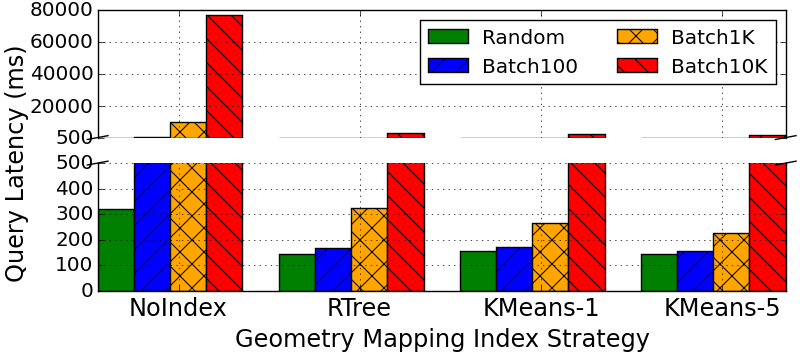
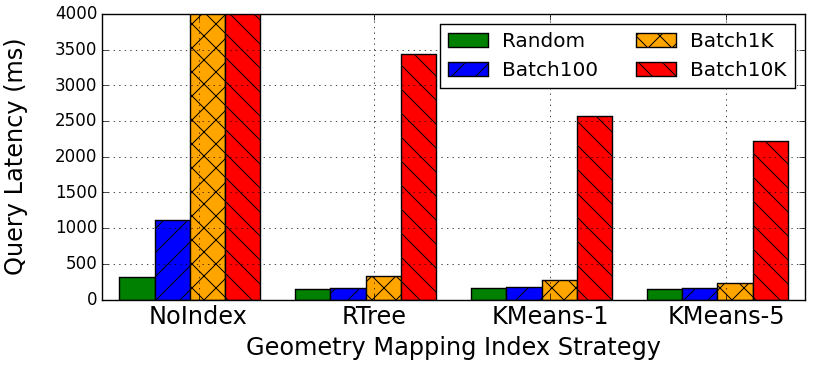
replace expansion to flatten globally

diff --git a/Lineage.tex b/Lineage.tex
@@ -195,8 +195,8 @@ Based on the fact of ML pipeline builders having deep understanding of data tran
 we present a lineage capturing interface that returns declaration and instrumentation (what data to capture) flexibility to users. 
 By formulating the cell level mapping of an ML pipeline as a sequence of multi-dimensional space transformations
 (Figure~\ref{fig:conceptual} shows a conceptual illustration), we are able to identify seven primitive lineage types.
-Higher-dimensional space can collapse/expand to lower-dimensional spaces along one dimension at a time, 
-resulting in {\bf collapse} mapping (\textcircled{1}) and {\bf expansion} mapping (\textcircled{6}, \textcircled{7}). 
+Higher-dimensional space can collapse/flatten to lower-dimensional spaces along one dimension at a time, 
+resulting in {\bf collapse} mapping (\textcircled{1}) and {\bf flatten} mapping (\textcircled{6}, \textcircled{7}). 
 A mapping between spaces with the same number of dimensions can be {\bf identity} mapping (\textcircled{5}), {\bf all} mapping (\textcircled{9}), 
 {\bf geometry} mapping (\textcircled{2}, \textcircled{4}), {\bf lincom} (short for linear combination) mapping (\textcircled{3}, \textcircled{8}),
 or {\bf join} mapping. 
@@ -347,7 +347,7 @@ The mapping function {\bf Func()} contains the core information of the input and
 Recording the element-wise dependency can take up to $O(kN^2)$ space given k N-dimensional vectors in the case
 of every output element depending on every input element. 
 To eliminate this polynomial explosion in space requirements, we identify seven primitive mapping functions.
-From higher dimension space to lower dimension space, the mapping can be {\bf collapse} or {\bf expansion}.
+From higher dimension space to lower dimension space, the mapping can be {\bf collapse} or {\bf flatten}.
 Between the equal dimension spaces, the mapping can be {\bf identity}, {\bf all}, {\bf geometry}, {\bf lincom}, and {\bf join}.
 Figure~\ref{fig:narrowmapping} shows the seven primitive mapping functions, with the mapping highlighted with color scheme.
 
@@ -362,7 +362,7 @@ Figure~\ref{fig:narrowmapping} shows the seven primitive mapping functions, with
 
 {\bf Collapse} mapping describes the mapping of a space collapsing into a one dimension lower space along one dimension which needs
 to be specified by the user. Examples include gray scaling a multiple channel image.
-{\bf Expansion} mapping is where a space expands to a one dimension lower space, e.g., expanding a matrix to a vector with column major.
+{\bf Flatten} mapping is where a space expands to a one dimension lower space, e.g., expanding a matrix to a vector with column major.
 In {\bf identity} mapping, each output element only depends on one element with the same coordinate in the input matrix.
 In {\bf all} mapping, each output element depends on all elements in the input matrix.
 {\bf Geometry} mapping describes the case where a group of output elements depend on a group of input elements.
@@ -654,7 +654,7 @@ Table~\ref{tb:lineage-interface} summarizes the lineage types and parameters pas
     \begin{tabular}{ | p{8cm}|}
     \hline
     CollapseLineage(in, out, transformer, dimension) \\ \hline 
-    ExpansionLineage(in, out, transformer, dimension) \\ \hline
+    FlattenLineage(in, out, transformer, dimension) \\ \hline
     IdentityLineage(in, out, transformer) \\ \hline
     AllLineage(in, out, transformer) \\ \hline
     GeoLineage(in, out, transformer, mappingCollection) \\ \hline
@@ -702,7 +702,7 @@ This intuitive solution takes a tremendous amount of space to materialize the ma
     \begin{tabular}{ | p{8cm}|}
     \hline
     CollapseMapping(inMeta, outMeta, dimension) \\ \hline 
-    ExpansionMapping(inMeta, outMeta, dimension) \\ \hline
+    FlattenMapping(inMeta, outMeta, dimension) \\ \hline
     IdentityMapping(inMeta, outMeta) \\ \hline
     AllMapping(inMeta, outMeta) \\ \hline
     GeometryMapping(inMeta, outMeta, mappingCollection) \\ \hline
@@ -770,23 +770,23 @@ All mapping, identity mapping, lincom mapping, and join mapping are symmetric,
 meaning the inverse of these two mappings are also all mapping, identity mapping, 
 lincom mapping and join mapping respectively.
 
-{\bf Collapse mapping} and {\bf expansion mapping} are not symmetric, but the mapping inversion can be inferred
+{\bf Collapse mapping} and {\bf flatten mapping} are not symmetric, but the mapping inversion can be inferred
 given the data structure metadata (the number and size of dimensions of an n-dimensional space). For example, 
 in the collapse case shown early in Figure~\ref{fig:narrowmapping}, a matrix with three rows and three columns
 collapses into a vector along the row dimension. Thus a mapping inversion of an element of the vector
 is all elements in the corresponding row in the matrix. 
-The inversion of expansion mapping can also be inferred with simple calculation.
+The inversion of flatten mapping can also be inferred with simple calculation.
 The inversion of geometry mapping is enabled by switch the order of the order of each geometry pairs.
 
 For mappings that are not covered by the seven primitive types, SystemX allows users to define {\bf custom} mapping
 which requires two functions, one for forward mapping and the other for backward mapping.
 
 \subsection{Other Mapping Cases}
-Among the seven mapping types defined in \S\ref{sec:Design-Lineage}, the collapse mapping and expansion mapping
+Among the seven mapping types defined in \S\ref{sec:Design-Lineage}, the collapse mapping and flatten mapping
 map spaces that have different dimensions. By definition, they only maps from a higher-dimensional space to a lower-dimensional space.
 A transformer that reduces a lower-dimensional space to a higher-dimensional space, e.g., transforming a vector into a matrix, can use
-the same ExpansionLineage type for declaration based on the fact that the reverse mapping of this transformation is a
-expansion mapping. SystemX can infer the mapping direction based on the metadata of data structures 
+the same FlattenLineage type for declaration based on the fact that the reverse mapping of this transformation is a
+flatten mapping. SystemX can infer the mapping direction based on the metadata of data structures 
 (the number and size of dimensions of an n-dimensional space). 
 A similar solution is used for the reverse of collapse mapping.
 
@@ -1017,7 +1017,7 @@ While the KMeans strategies are building two-level trees.
 
 \begin{figure}[t]
 \begin{center}
-    \includegraphics[width=85mm]{pictures/SIFTQuery-Time}
+    \includegraphics[width=85mm]{pictures/SIFTQuery-Time-tuned}
 \caption {Query performance profile of the geometry mapping with four indexing strategies
     \label{fig:sift-query}
 }
@@ -1163,7 +1163,7 @@ Table~\ref{tb:typequery-stats} shows the metadata settings of the input and outp
     All & Vector(40960) & Vector(40960) \\ \hline
     Identity & Matrix(80, 512) & Matrix(80, 512) \\ \hline
     LinCom & Vector(40960) & Vector(20) \\ \hline
-    Expansion & Matrix(80, 512) & Vector(40960) \\ \hline
+    Flatten & Matrix(80, 512) & Vector(40960) \\ \hline
     Collapse & Image(375, 500, 3) & Matrix(375, 500) \\ \hline
     Join & Matrix(500, 300) & Matrix(300, 500) \\ \hline
     Geometry& \shortstack[l]{Matrix(300, 500), \\60K geometries} &  \shortstack[l]{Matrix(128, 60000), \\60K geometries} \\ \hline
@@ -1173,7 +1173,7 @@ Table~\ref{tb:typequery-stats} shows the metadata settings of the input and outp
 \end{center}   
 \end{table}
 
-Given the fact that all mapping, identity mapping, lincom mapping, expansion mapping, collapse mapping, and join mapping
+Given the fact that all mapping, identity mapping, lincom mapping, flatten mapping, collapse mapping, and join mapping
 only involves trivial computation, queries with 1 to 10K keys show latency under 200~ms which is generally the Spark operating latency. 
 These queries show performance degradation with 100K keys (generally around 1~second). 
 From 100K keys, the query latency increases proportionally with the key number as shown with the 1M key performance.

diff --git a/pictures/SIFTQuery-Time.py b/pictures/SIFTQuery-Time.py
@@ -19,48 +19,47 @@ Batch10KSDV = (6194.96, 564.33, 312.15, 300.34)
 ind = 0.1+np.arange(N)  # the x locations for the groups
 width = 0.2       # the width of the bars
 
-f, (ax, ax2) = plt.subplots(2, 1, sharex=True)
-ax.set_ylim([1000, 80000])
-ax2.set_ylim([0, 500])
-
-ax.spines['bottom'].set_visible(False)
-ax2.spines['top'].set_visible(False)
-ax.xaxis.tick_top()
-ax.tick_params(labeltop='off')
-ax2.xaxis.tick_bottom()
+ax = plt.subplot()
+#f, (ax, ax2) = plt.subplots(2, 1, sharex=True)
+ax.set_ylim(0, 4000)
+#ax2.set_ylim([0, 500])
+#
+#ax.spines['bottom'].set_visible(False)
+#ax2.spines['top'].set_visible(False)
+#ax.xaxis.tick_top()
+#ax.tick_params(labeltop='off')
+#ax2.xaxis.tick_bottom()
 
 rects1 = ax.bar(ind, Random, width, color='green')
 rects2 = ax.bar(ind+width, Batch100, width, color='blue', hatch="/")
 rects3 = ax.bar(ind+2*width, Batch1K, width, color='orange', hatch="x")
 rects4 = ax.bar(ind+3*width, Batch10K, width, color='red', hatch="\\")
-ax2.bar(ind, Random, width, color='green')
-ax2.bar(ind+width, Batch100, width, color='blue', hatch="/")
-ax2.bar(ind+2*width, Batch1K, width, color='orange', hatch="x")
-ax2.bar(ind+3*width, Batch10K, width, color='red', hatch="\\")
+#ax2.bar(ind, Random, width, color='green')
+#ax2.bar(ind+width, Batch100, width, color='blue', hatch="/")
+#ax2.bar(ind+2*width, Batch1K, width, color='orange', hatch="x")
+#ax2.bar(ind+3*width, Batch10K, width, color='red', hatch="\\")
 ax.grid(True)
-ax2.grid(True)
+#ax2.grid(True)
 
-ax.set_yticklabels((500, 20000, 40000, 60000, 80000), size='large')
-ax2.set_yticklabels((0, 100, 200, 300, 400, 500), size='large')
+#ax.set_yticklabels((0, 500, 1000, 1500, 2000), size='large')
+#ax2.set_yticklabels((0, 100, 200, 300, 400, 500), size='large')
 
-#args = dict(horizontalalignment='left', verticalalignment='bottom')
 # add some text for labels, title and axes ticks
-ax2.set_xlabel('Geometry Mapping Index Strategy', size='x-large')
-ax2.set_ylabel('Query Latency (ms)', size='x-large', labelpad=20)
-ax2.yaxis.set_label_coords(-0.1, 1.0)
+ax.set_xlabel('Geometry Mapping Index Strategy', size='x-large')
+ax.set_ylabel('Query Latency (ms)', size='x-large', labelpad=20)
 ax.set_xticks(ind+0.45)
-ax2.set_xticklabels( ('NoIndex', 'RTree', 'KMeans-1', 'KMeans-5'), size='x-large') 
+ax.set_xticklabels( ('NoIndex', 'RTree', 'KMeans-1', 'KMeans-5'), size='x-large') 
 ax.legend( (rects1[0], rects2[0], rects3[0], rects4[0]), ('Random', 'Batch100', 'Batch1K', 'Batch10K'), loc='best', ncol=2)
-ax.yaxis.set_ticks((500, 20000, 40000, 60000, 80000))
+#ax.yaxis.set_ticks((500, 20000, 40000, 60000, 80000))
 
-d = .015
-kwargs = dict(transform=ax.transAxes, color='k', clip_on=False)
-ax.plot((-d,+d),(-d,+d), **kwargs)      # top-left diagonal
-ax.plot((1-d,1+d),(-d,+d), **kwargs)    # top-right diagonal
+#d = .015
+#kwargs = dict(transform=ax.transAxes, color='k', clip_on=False)
+#ax.plot((-d,+d),(-d,+d), **kwargs)      # top-left diagonal
+#ax.plot((1-d,1+d),(-d,+d), **kwargs)    # top-right diagonal
 
-kwargs.update(transform=ax2.transAxes)  # switch to the bottom axes
-ax2.plot((-d,+d),(1-d,1+d), **kwargs)   # bottom-left diagonal
-ax2.plot((1-d,1+d),(1-d,1+d), **kwargs) # bottom-right diagonal
+#kwargs.update(transform=ax2.transAxes)  # switch to the bottom axes
+#ax2.plot((-d,+d),(1-d,1+d), **kwargs)   # bottom-left diagonal
+#ax2.plot((1-d,1+d),(1-d,1+d), **kwargs) # bottom-right diagonal
 
 plt.show()
 

diff --git a/pictures/TypeQuery-Time.py b/pictures/TypeQuery-Time.py
@@ -40,7 +40,7 @@ ax.set_xlabel('Lineage Type', size='x-large')
 ax.set_ylabel('Query Latency (ms)', size='x-large', labelpad=20)
 ax.set_yscale('log')
 ax.set_xticks(ind+0.45)
-ax.set_xticklabels( ('All', 'Identity', 'LinCom', 'Expansion', 'Collapse', 'Join', 'Geometry'), size='x-large') 
+ax.set_xticklabels( ('All', 'Identity', 'LinCom', 'Flatten', 'Collapse', 'Join', 'Geometry'), size='x-large') 
 ax.legend( (rects1[0], rects2[0], rects3[0], rects4[0], rects5[0]), ('Random', 'Batch1K', 'Batch10K', 'Batch100K', 'Batch1M'), loc='best', ncol=3)
 
 #d = .015
